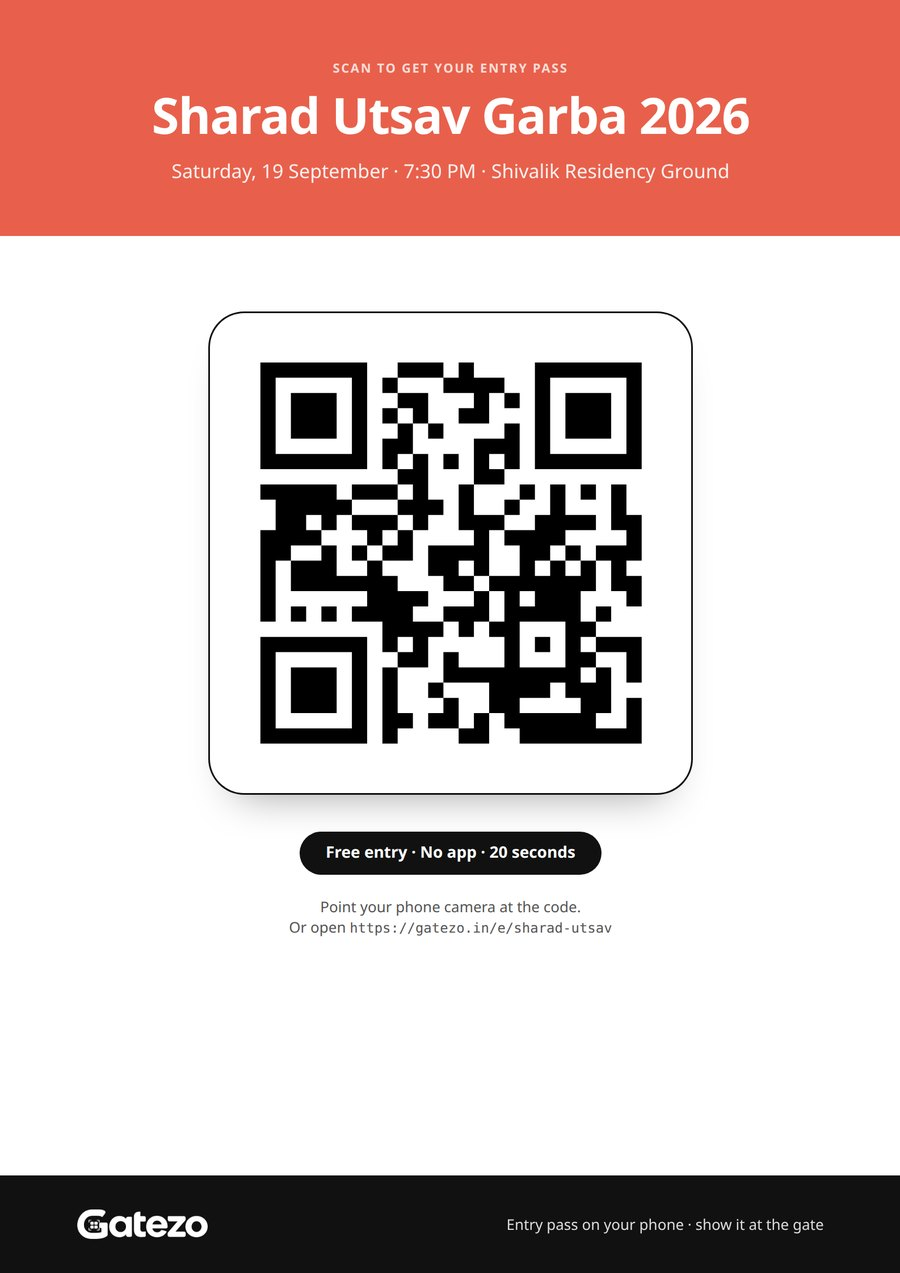
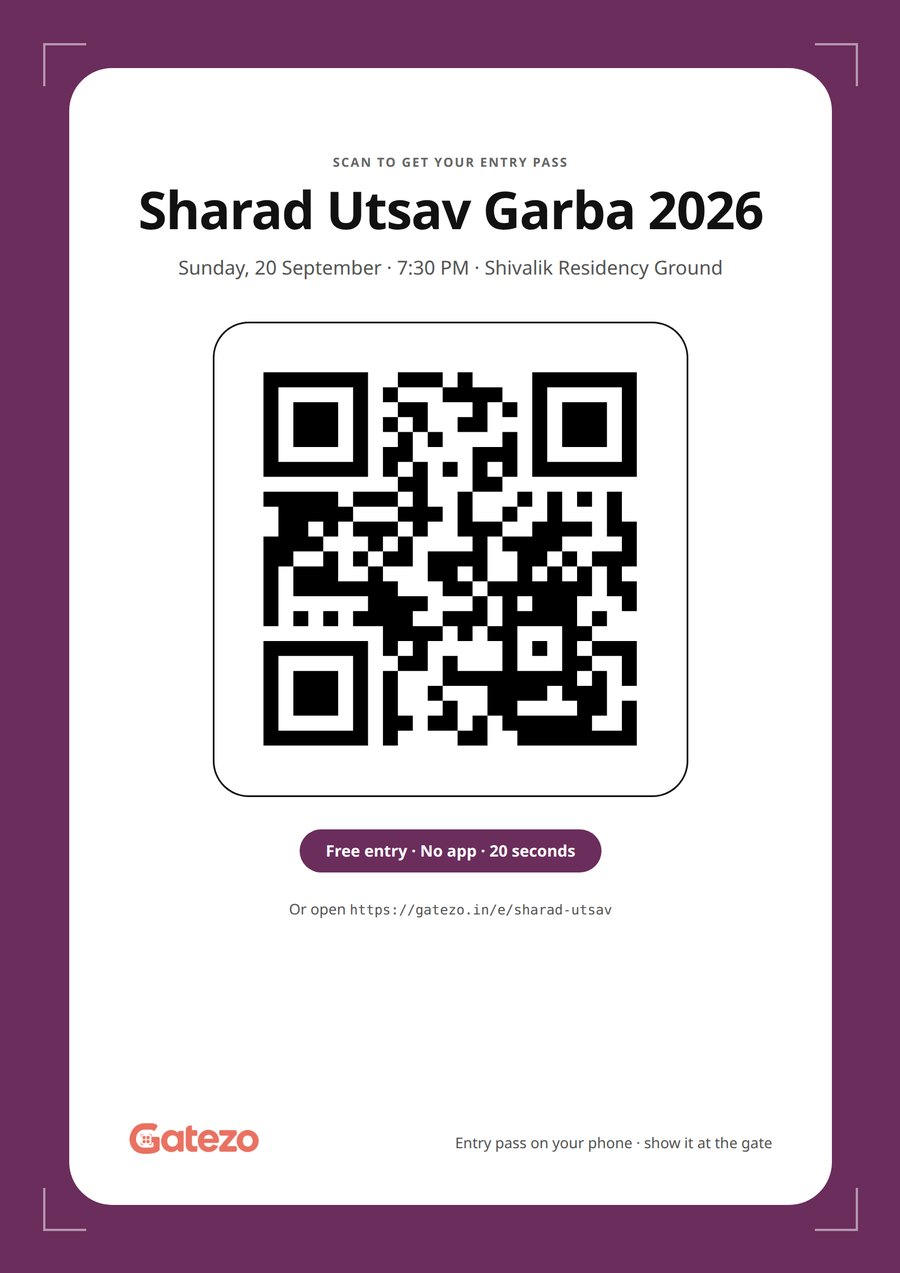
Demo event: festival kit in plum; landing kit renders refreshed

diff --git a/database/seeders/DemoSeeder.php b/database/seeders/DemoSeeder.php
@@ -65,6 +65,9 @@ class DemoSeeder extends Seeder
             'starts_at' => $tonight,
             'ends_at' => $tonight->copy()->setTime(23, 30),
             'allow_reentry' => true,
+            // Show off the colour kit: festival template in plum.
+            'accent_hex' => '#6B2D5C',
+            'kit_style' => 'festival',
         ]);
         $event->forceFill(['created_by' => $organizer->id, 'volunteer_code' => '246810', 'created_at' => $now->copy()->subDays(21)])->save();
         $event->members()->attach([$organizer->id => ['role' => 'organizer'], $co->id => ['role' => 'organizer']]);
